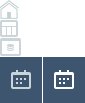
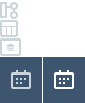
data flow LNB 변경

Changed region(s): [[0.0, 0.0, 0.2353, 0.2039]]

diff --git a/discovery-prep-frontend/src/assets/css/page/page.navigation.css b/discovery-prep-frontend/src/assets/css/page/page.navigation.css
@@ -15,22 +15,25 @@
 .pb-layout-navi.is-selected .pb-wrap-navi,
 .pb-layout-navi.type-open .pb-wrap-navi{display:none;}
 .pb-layout-navi .pb-lnb-navigation.type-close {}
-.pb-ui-navi-menu .pb-list-navi-menu li a {display:inline-block; position:relative; width:42px; height:46px;}
-.pb-ui-navi-menu .pb-list-navi-menu li a:before {display:inline-block; position:absolute; top:50%; left:50%; background:url(../../images/icon_lnb_navi2.png) no-repeat; content:'';}
 
-.pb-ui-navi-menu .pb-list-navi-menu li a.pb-icon-home:before {width:21px; margin:-9px 0 0 -11px; height:20px;}
-.pb-ui-navi-menu .pb-list-navi-menu li a.pb-icon-home.is-selected:before {background-position-x:-20px;background-color:#fd7724;}
-.pb-ui-navi-menu .pb-list-navi-menu li a.pb-icon-home:hover:before {background-position-x:-20px;}
+.pb-ui-navi-menu .pb-list-navi-menu li a {display:inline-block; position:relative; width:42px; height:46px;}
+.pb-ui-navi-menu .pb-list-navi-menu li a:before {display:inline-block; position:absolute; top:50%; left:50%; background:url(../../images/icon_lnb_navi.png) no-repeat; content:'';}
+.pb-ui-navi-menu .pb-list-navi-menu li a.is-selected {background-color:#f37135;}
+.pb-ui-navi-menu .pb-list-navi-menu li a:hover {background-color:#3d556f;}
+
+.pb-ui-navi-menu .pb-list-navi-menu li a.pb-icon-home:before {width:19px; margin:-9px 0 0 -9px; height:20px;}
+.pb-ui-navi-menu .pb-list-navi-menu li a.pb-icon-home.is-selected:before {background-position-x:-20px;}
+.pb-ui-navi-menu .pb-list-navi-menu li a.pb-icon-home:hover:before {background-position-x:-20px;background-color:#3d556f;}
 
 .pb-ui-navi-menu .pb-list-navi-menu li a.pb-icon-dataset:before {width:18px; margin:-9px 0 0 -9px; height:17px;background-position:left -20px;}
-.pb-ui-navi-menu .pb-list-navi-menu li a.pb-icon-dataset.is-selected:before {background-position-x:-19px;background-color:#fd7724;}
-.pb-ui-navi-menu .pb-list-navi-menu li a.pb-icon-dataset:hover:before {background-position-x:-19px;}
+.pb-ui-navi-menu .pb-list-navi-menu li a.pb-icon-dataset.is-selected:before {background-position-x:-19px;}
+.pb-ui-navi-menu .pb-list-navi-menu li a.pb-icon-dataset:hover:before {background-position-x:-19px;background-color:#3d556f;}
 
 .pb-ui-navi-menu .pb-list-navi-menu li a.pb-icon-dataresult:before {width:21px; height:18px; margin:-9px 0 0 -11px; background-position:left -38px;}
-.pb-ui-navi-menu .pb-list-navi-menu li a.pb-icon-dataresult.is-selected:before {background-position-x:-22px;background-color:#fd7724;}
-.pb-ui-navi-menu .pb-list-navi-menu li a.pb-icon-dataresult:hover:before {background-position-x:-22px;}
+.pb-ui-navi-menu .pb-list-navi-menu li a.pb-icon-dataresult.is-selected:before {background-position-x:-22px;}
+.pb-ui-navi-menu .pb-list-navi-menu li a.pb-icon-dataresult:hover:before {background-position-x:-22px;background-color:#3d556f;}
 
-.pb-layout-navi a.pb-link-schedule {position:absolute; bottom:0; left:0; width:42px; height:46px;background:url(../../images/icon_lnb_navi2.png) no-repeat; background-position:left -56px;}
+.pb-layout-navi a.pb-link-schedule {position:absolute; bottom:0; left:0; width:42px; height:46px;background:url(../../images/icon_lnb_navi.png) no-repeat; background-position:left -56px;}
 .pb-layout-navi a.pb-link-schedule.is-selected,
 .pb-layout-navi a.pb-link-schedule:hover {background-position-x:-43px;}
 

diff --git a/discovery-prep-frontend/src/app/prepbot/prep/prep-detail.component.html b/discovery-prep-frontend/src/app/prepbot/prep/prep-detail.component.html
@@ -386,56 +386,6 @@
                     DATA RESULTS
                 </div>
                 <div class="pb-ui-graph">
-                    <div class="pb-wrap-connect type-connect">
-                        <!-- data grid -->
-                        <div class="pb-wrap-data-grid">
-                            <!-- grid top -->
-                            <div class="pb-ui-grid-top">
-                                <div class="pb-component-search">
-                                    <input type="text" placeholder="Search for values">
-                                </div>
-                            </div>
-                            <!-- //grid top -->
-                            <div class="pb-wrap-table">
-                                <table class="pb-component-table">
-                                    <colgroup>
-                                        <col width="*">
-                                        <col width="15%">
-                                        <col width="20%">
-                                    </colgroup>
-                                    <thead>
-                                    <tr>
-                                        <th>
-                                            Dataresult
-                                            <em class="pb-icon-array type-des"> </em>
-                                        </th>
-                                        <th>Type
-                                            <em class="pb-icon-array "></em>
-                                        </th>
-                                        <th>
-                                            Last Updated
-                                            <em class="pb-icon-array type-asc"> </em>
-                                        </th>
-                                    </tr>
-                                    </thead>
-                                    <tbody>
-                                    <tr>
-                                        <td>
-                                            Dataset name Dataset nameDataset nameDataset nameDataset name
-                                        </td>
-                                        <td>
-                                            File (Excel)
-                                        </td>
-                                        <td>
-                                            Last Updated
-                                        </td>
-                                    </tr>
-                                    </tbody>
-                                </table>
-                            </div>
-                        </div>
-                        <!-- //data grid -->
-                    </div>
                 </div>
             </div>
         </div>

diff --git a/discovery-prep-frontend/src/app/prepbot/prep/prep-detail.component.ts b/discovery-prep-frontend/src/app/prepbot/prep/prep-detail.component.ts
@@ -93,6 +93,8 @@ export class PrepDetailComponent extends AbstractComponent {
 
     public dataflows: PrDataflow[] = [];
 
+    public datasets: PrDataset[] = [];
+
     // 타입별 아이콘 정보
     private symbolInfo: any;
 
@@ -508,6 +510,28 @@ export class PrepDetailComponent extends AbstractComponent {
                 this.closeEditRule();
             } else {
                 this.getDataflow();
+                //
+                // for(int inx=0;inx<this.dataflows.count;inx++){
+                //
+                // }
+
+
+                // this.dataflows.forEach((list, index, array) => {
+                //     // set list filters
+                //     list.datasets.push(this.dataflows[index].datasets);
+                // });
+
+                // this.dataflows.forEach((item)=> {
+                //     this.datasets.push(item['datasets']);
+                //
+                // });
+
+                this.dataflows.forEach((item)=> {
+                    item.datasets.forEach((item2)=> {
+                        this.datasets.push(item2);
+                    });
+                });
+
                 if (sessionStorage.getItem('DATASET_ID')) { // From dataflow detail
                     //this.addDatasets();
                 }
